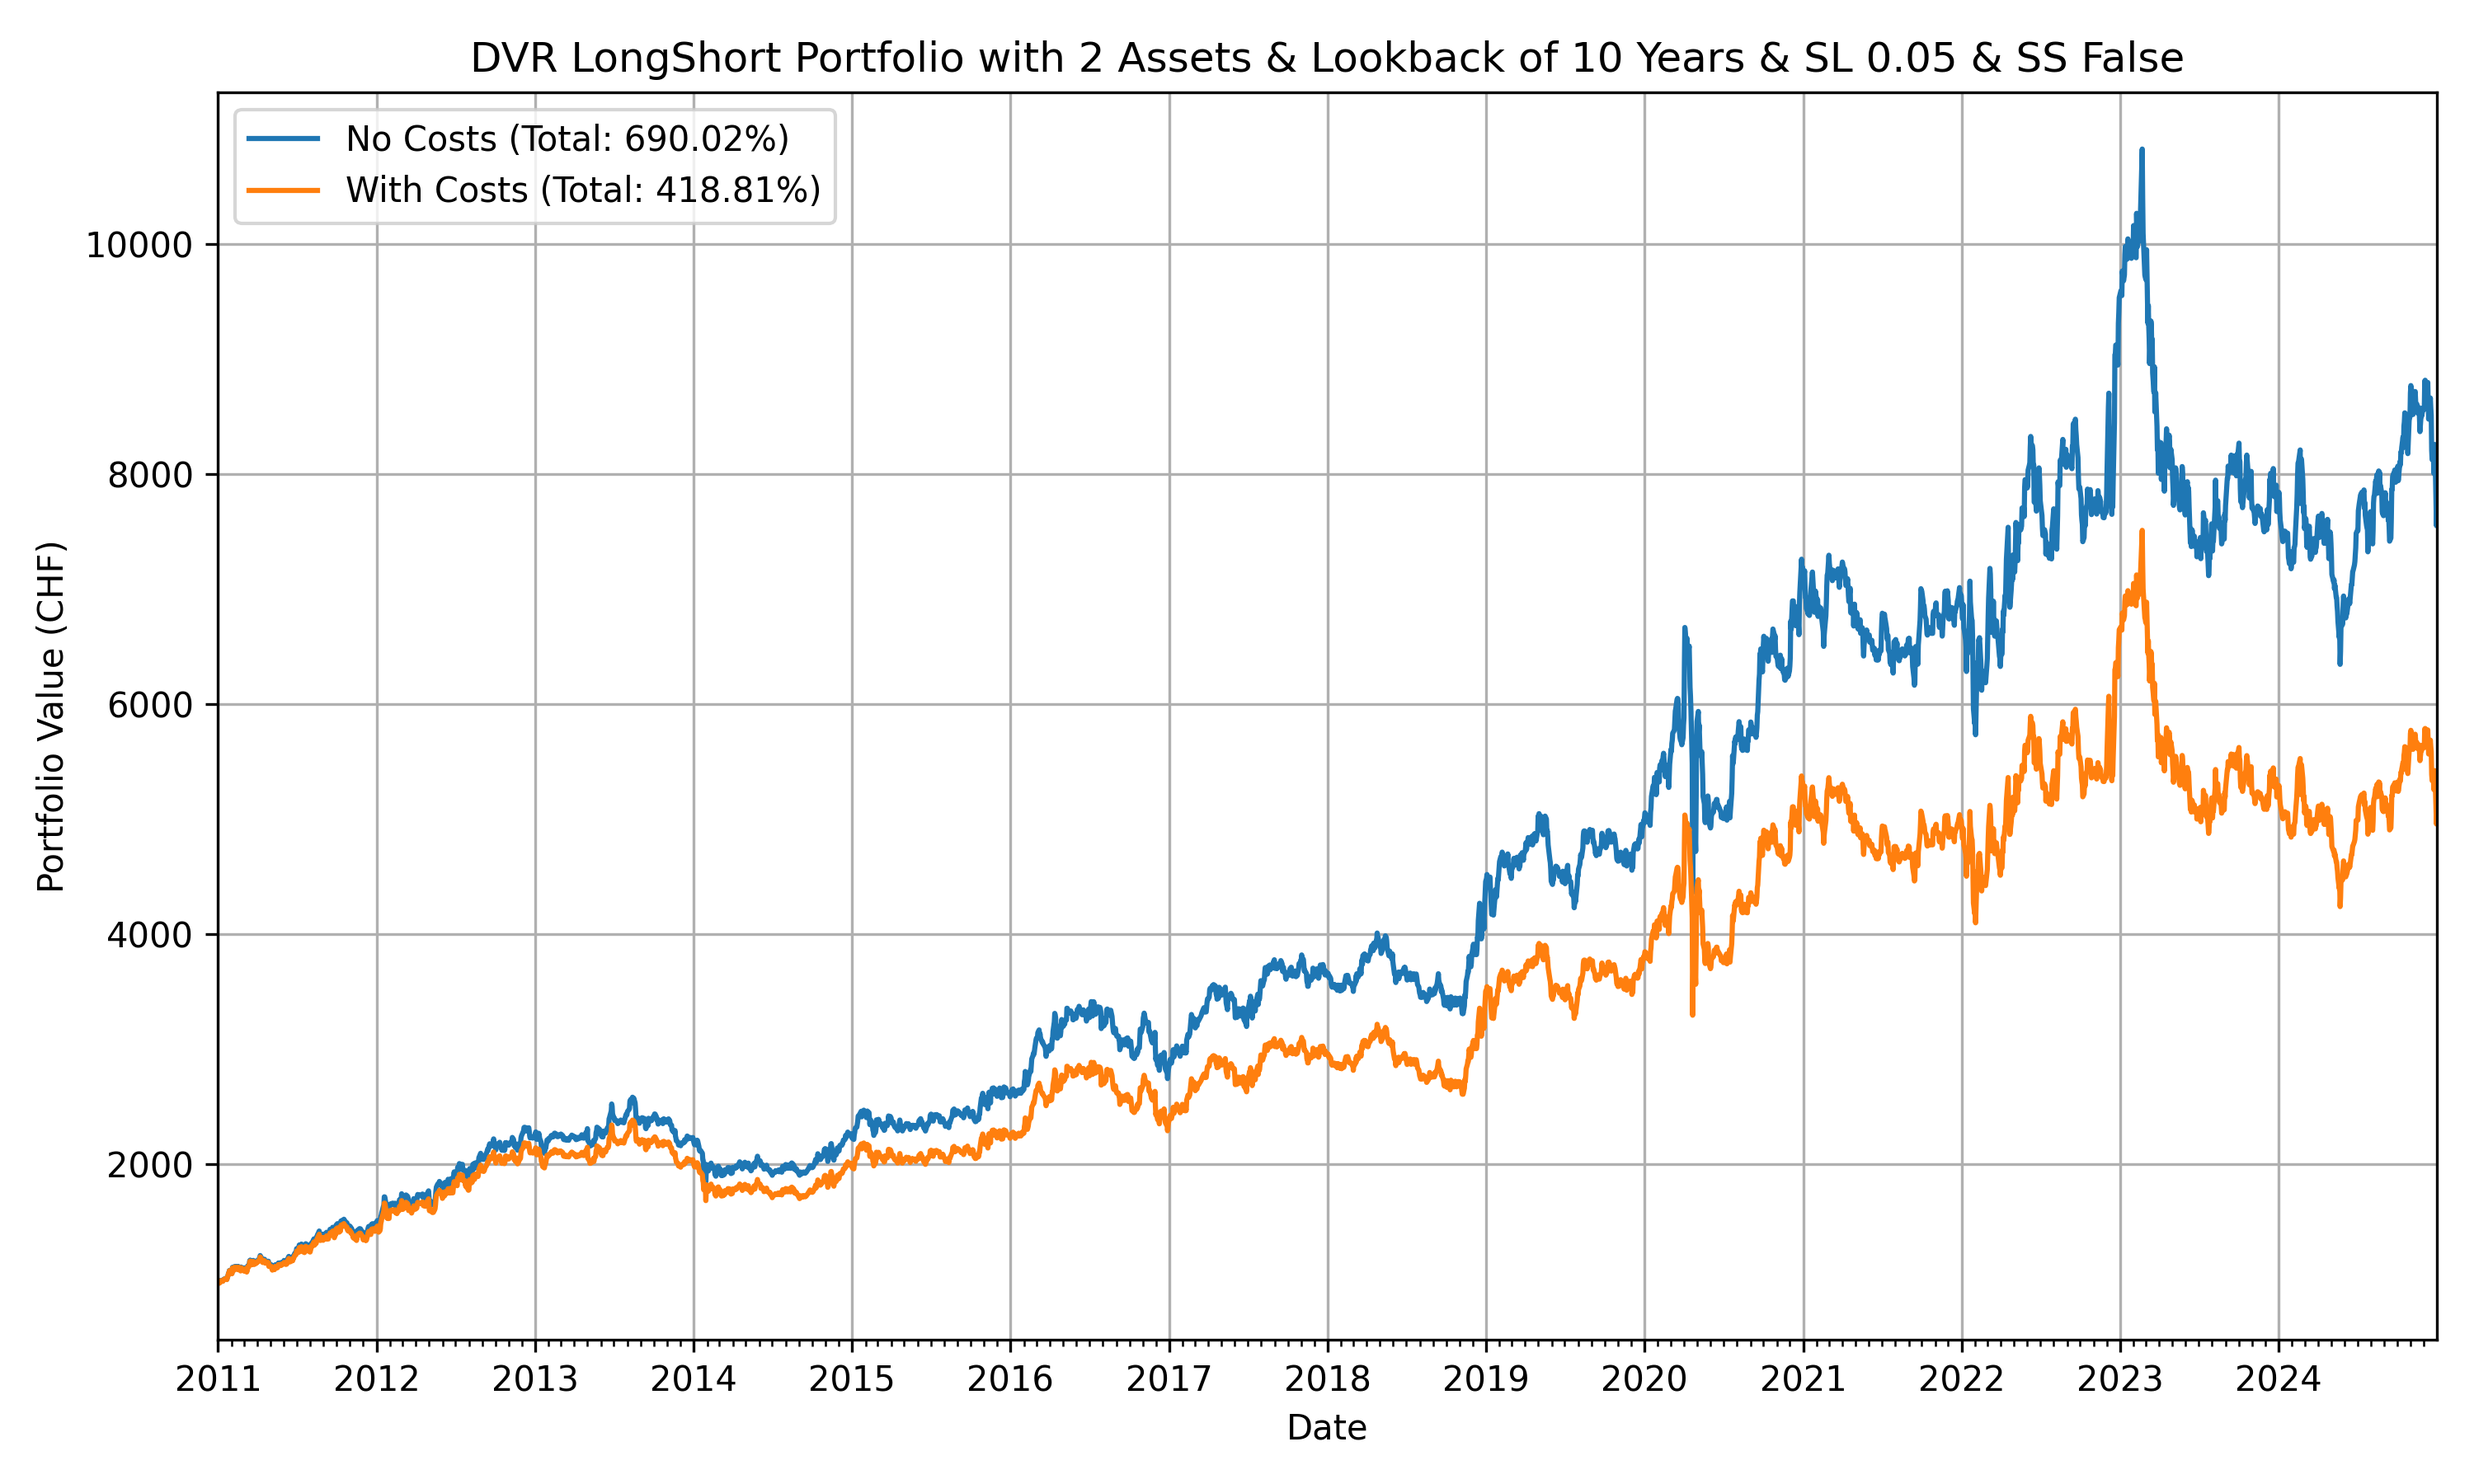
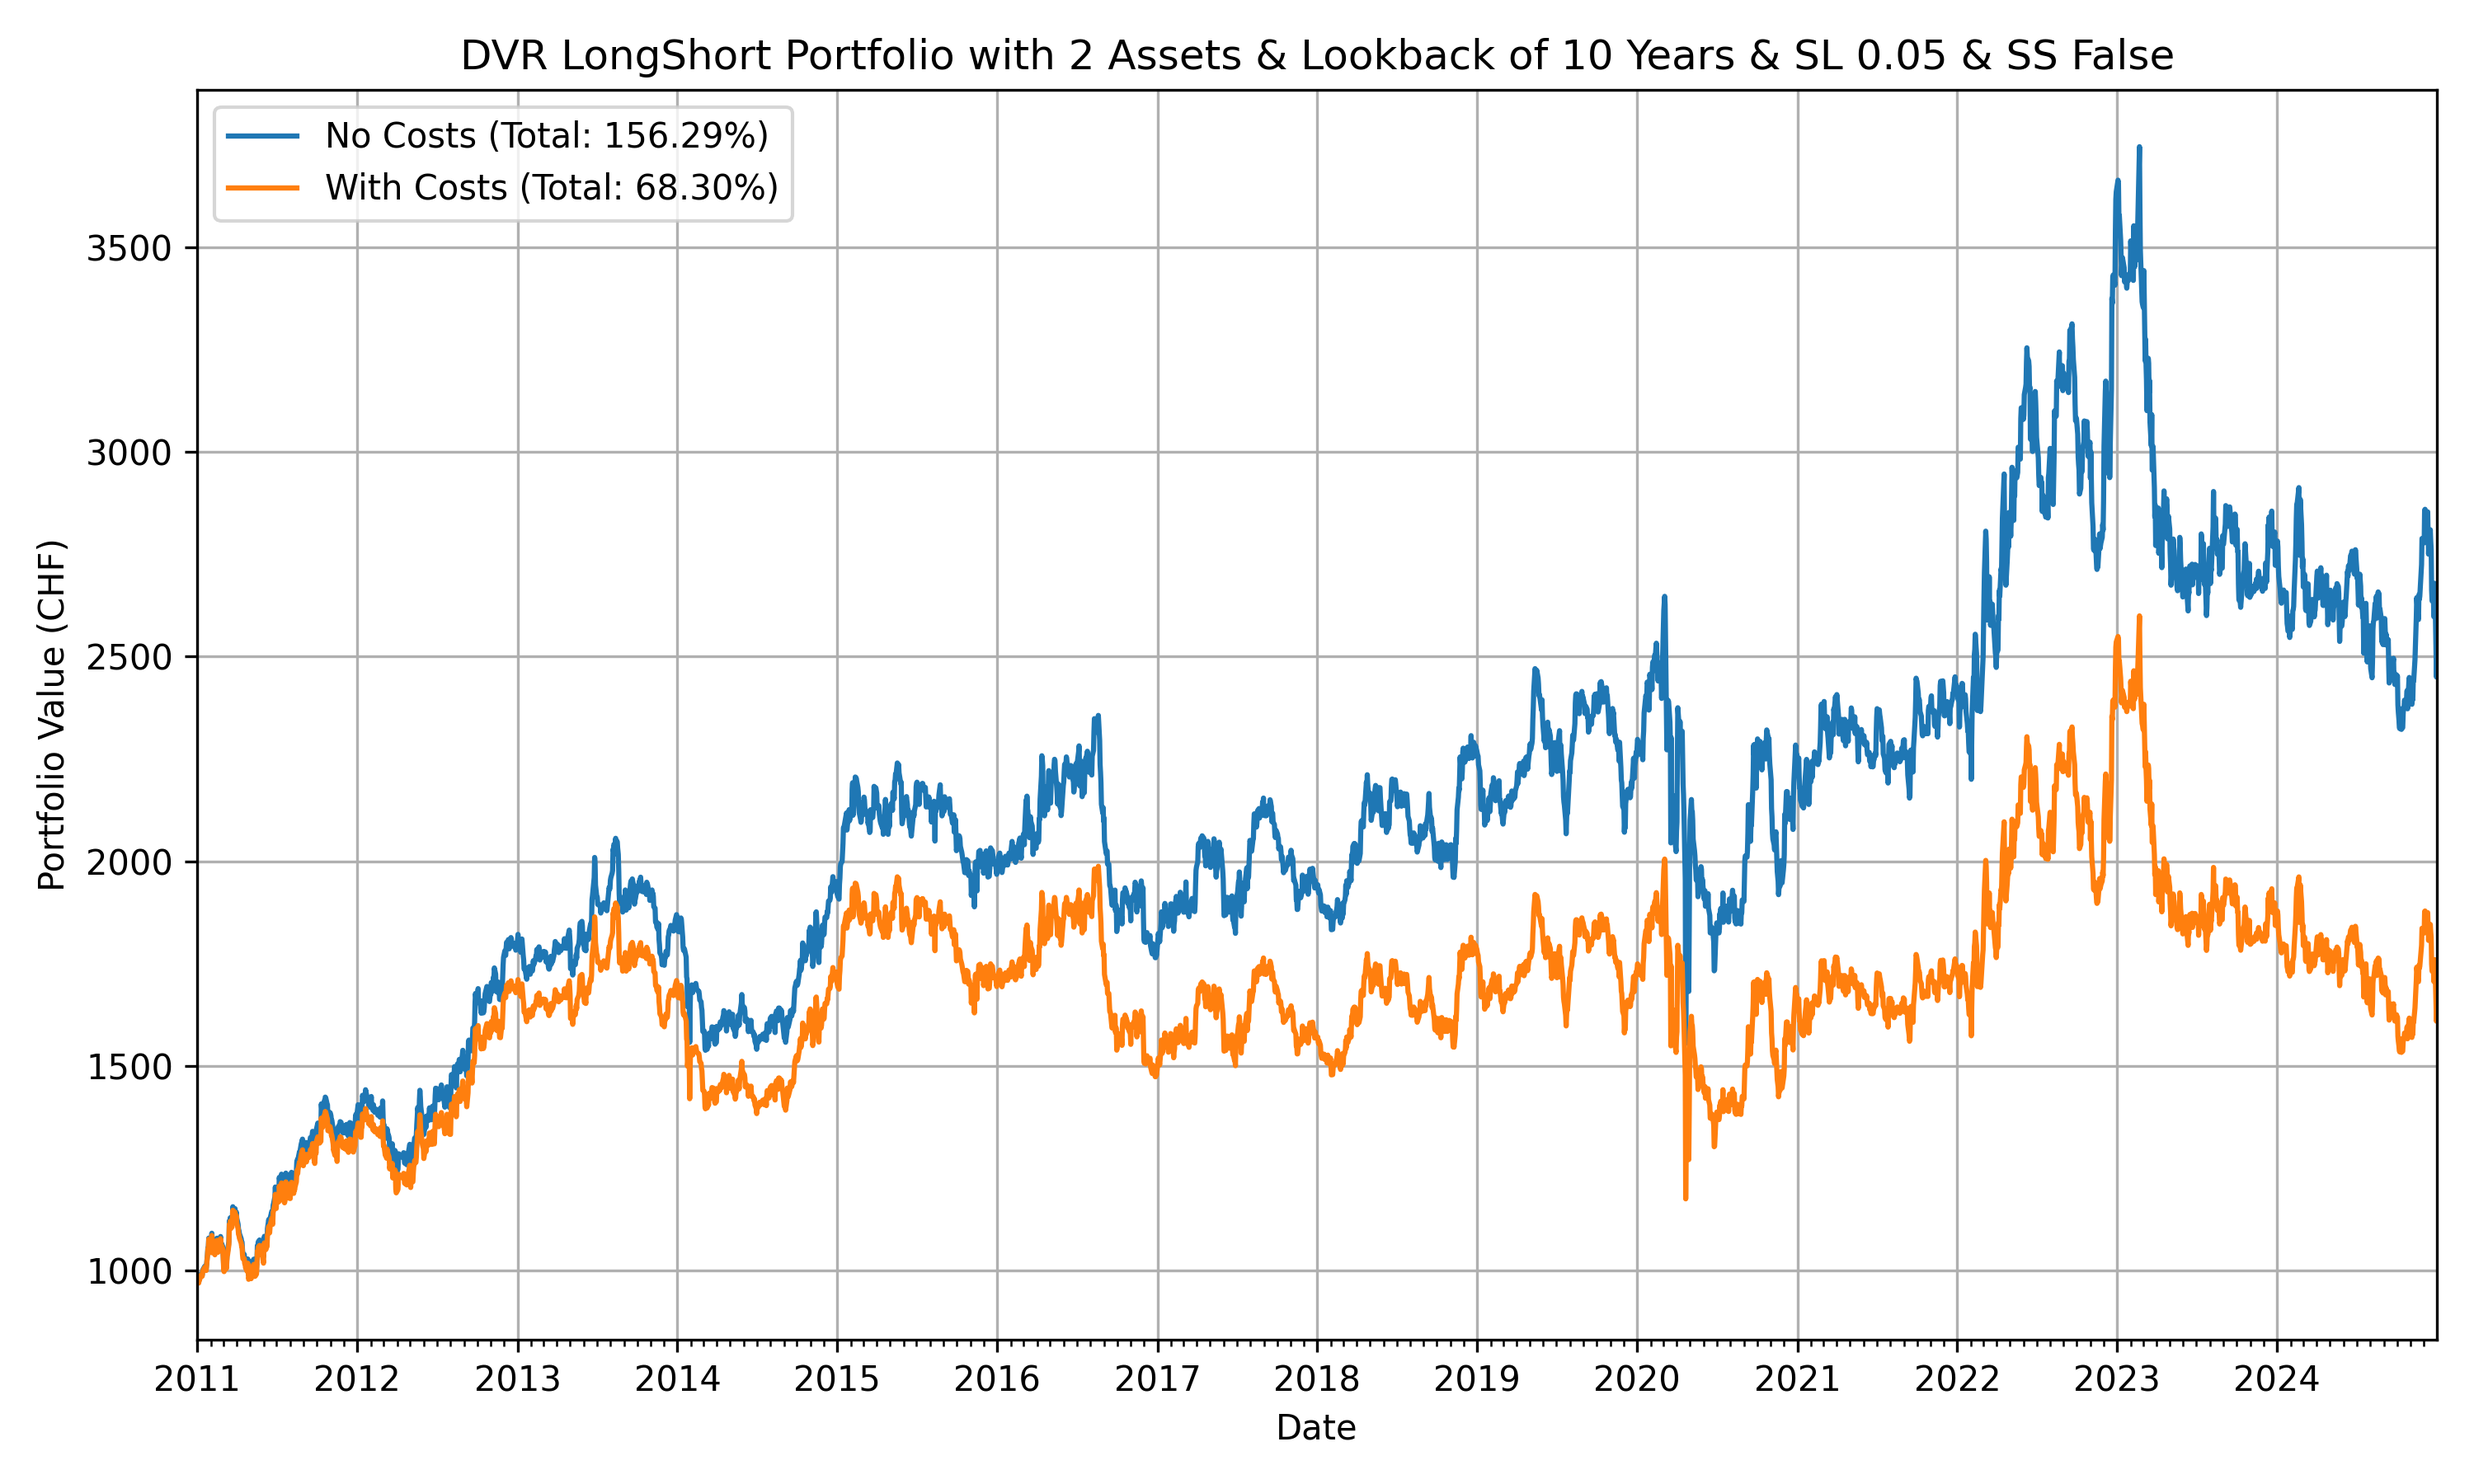
New Plots for my Trading Stragety Systems

diff --git a/Data Analysis/Seasonality Models/SSA_Portfolio_Creator.py b/Data Analysis/Seasonality Models/SSA_Portfolio_Creator.py
@@ -24,9 +24,9 @@ USE_EWMA_SCALE  = True
 EWMA_LAMBDA     = 0.94          # monthly decay; alpha = 1 - lambda
 MIN_OBS_FOR_VOL = 12            # min months needed to compute EWMA
 
-ENTRY_COST      = 0.005         # entry cost only
+ENTRY_COST      = 0.0025         # entry cost only
 START_VALUE     = 1000.0
-PLOT_START, PLOT_END = datetime(2016, 1, 1), datetime(2024, 12, 31)
+PLOT_START, PLOT_END = datetime(2011, 1, 1), datetime(2024, 12, 31)
 
 VOLUME_THRESHOLD = 1000
 DEBUG_DATE       = datetime(2016, 1, 1)
@@ -364,7 +364,7 @@ plt.title(f'SSA {NUM_SELECT} {MODE} Portfolio — {scale_tag} scaling — LB {LO
 plt.legend(); plt.grid(True)
 plt.xlim(PLOT_START, PLOT_END)
 plt.tight_layout()
-plt.show()
+#plt.show()
 
-#save_path = output_dir / title_str
-#plt.savefig(save_path, dpi=300)
+save_path = output_dir / title_str
+plt.savefig(save_path, dpi=300)

diff --git a/Data Analysis/Seasonality Models/RLSSA_Portfolio_Creator.py b/Data Analysis/Seasonality Models/RLSSA_Portfolio_Creator.py
@@ -24,7 +24,7 @@ USE_EWMA_SCALE  = True               # required by your spec; keep toggle for fl
 EWMA_LAMBDA     = 0.94               # monthly lambda; alpha = 1 - lambda
 MIN_OBS_FOR_VOL = 12                 # minimum months for EWMA vol
 
-ENTRY_COST      = 0.005             # apply at month entry when positions exist
+ENTRY_COST      = 0.0025             # apply at month entry when positions exist
 START_VALUE     = 1000.0
 PLOT_START, PLOT_END = datetime(2011, 1, 1), datetime(2024, 12, 31)
 
@@ -446,7 +446,7 @@ plt.title(f'RLSSA {NUM_SELECT} {MODE} Portfolio — {scale_tag} scaling — LB {
 plt.legend(); plt.grid(True)
 plt.xlim(PLOT_START, PLOT_END)
 plt.tight_layout()
-plt.show()
+#plt.show()
 
-# save_path = output_dir / title_str
-# plt.savefig(save_path, dpi=300)
+save_path = output_dir / title_str
+plt.savefig(save_path, dpi=300)

diff --git a/Data Analysis/Seasonality Models/DVR_Portfolio_Creator.py b/Data Analysis/Seasonality Models/DVR_Portfolio_Creator.py
@@ -17,12 +17,12 @@ LOOKBACK_YEARS  = 10   # only used to build SSA history
 FINAL_END       = datetime(2024, 12, 31)
 
 START_VALUE      = 1000.0
-ENTRY_COST       = 0.005
+ENTRY_COST       = 0.0025
 LOOKBACK_YEARS   = 10      # or None for full history
 NUM_SELECT       = 1
-STRICT_SEL       = False
-MODE             = "Short"   # "Long", "Short", or "LongShort"
-SIG_LEVEL        = 1
+STRICT_SEL       = True
+MODE             = "Long"   # "Long", "Short", or "LongShort"
+SIG_LEVEL        = 0.05
 
 PLOT_START, PLOT_END = datetime(2011, 1, 1), datetime(2024, 12, 31)
 
@@ -404,7 +404,7 @@ plt.legend()
 plt.grid(True)
 plt.xlim(PLOT_START, PLOT_END)
 plt.tight_layout()
-plt.show()
+#plt.show()
 
-#save_path = output_dir / title_str
-#plt.savefig(save_path, dpi=300)
+save_path = output_dir / title_str
+plt.savefig(save_path, dpi=300)
